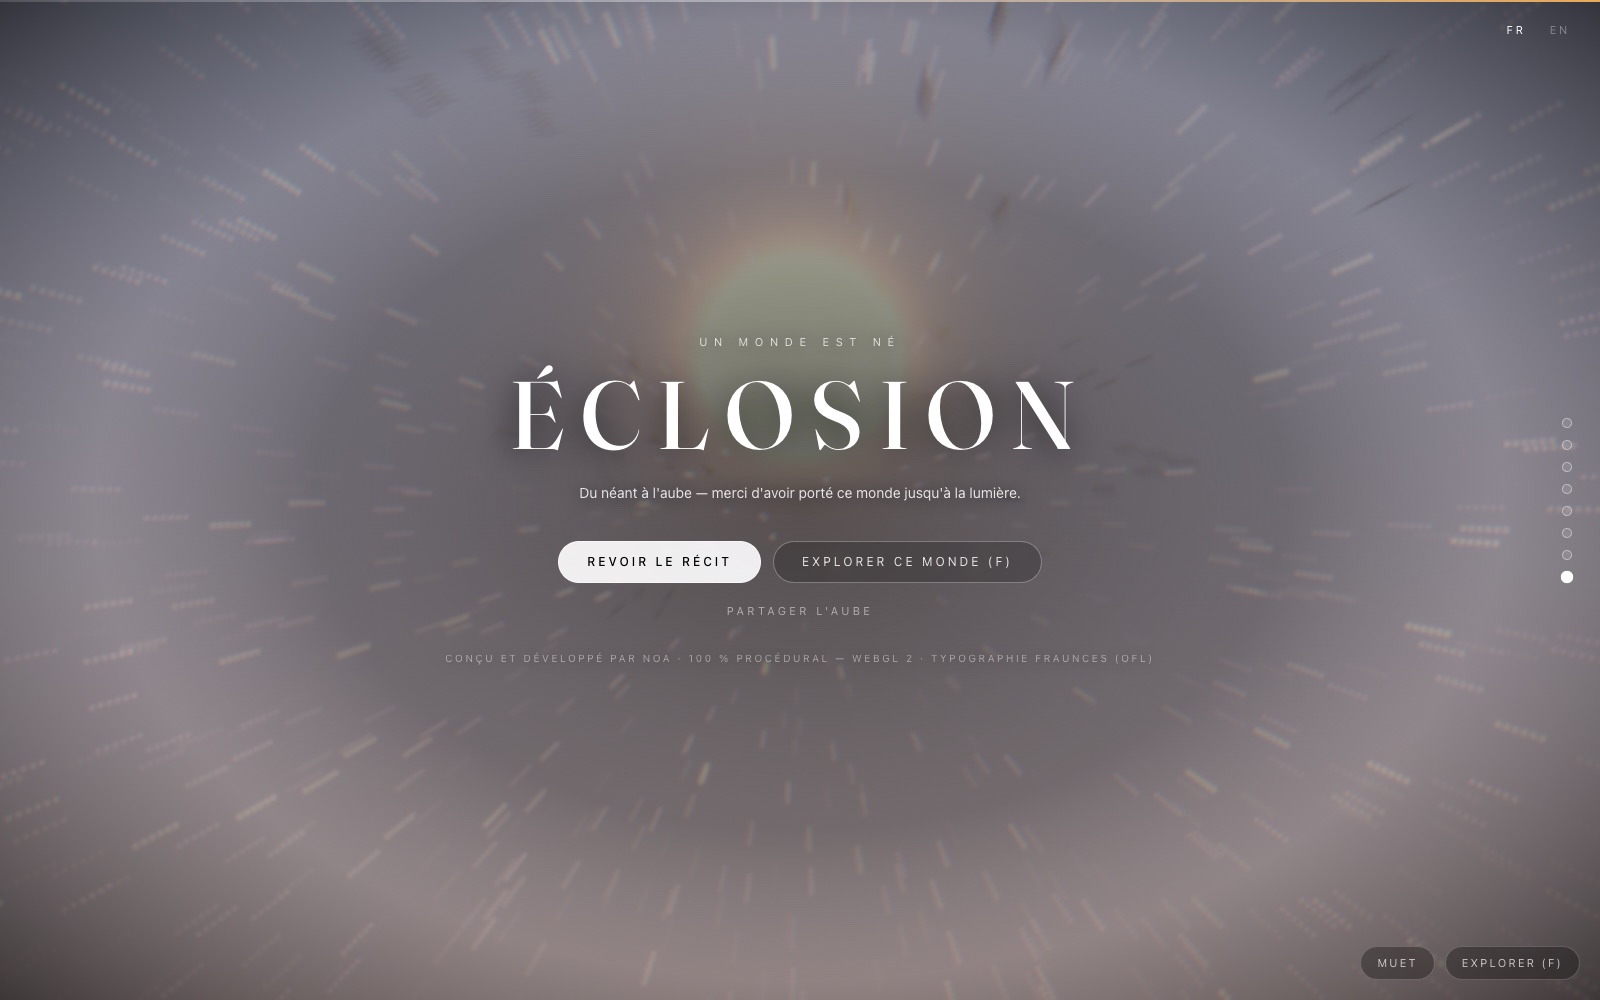
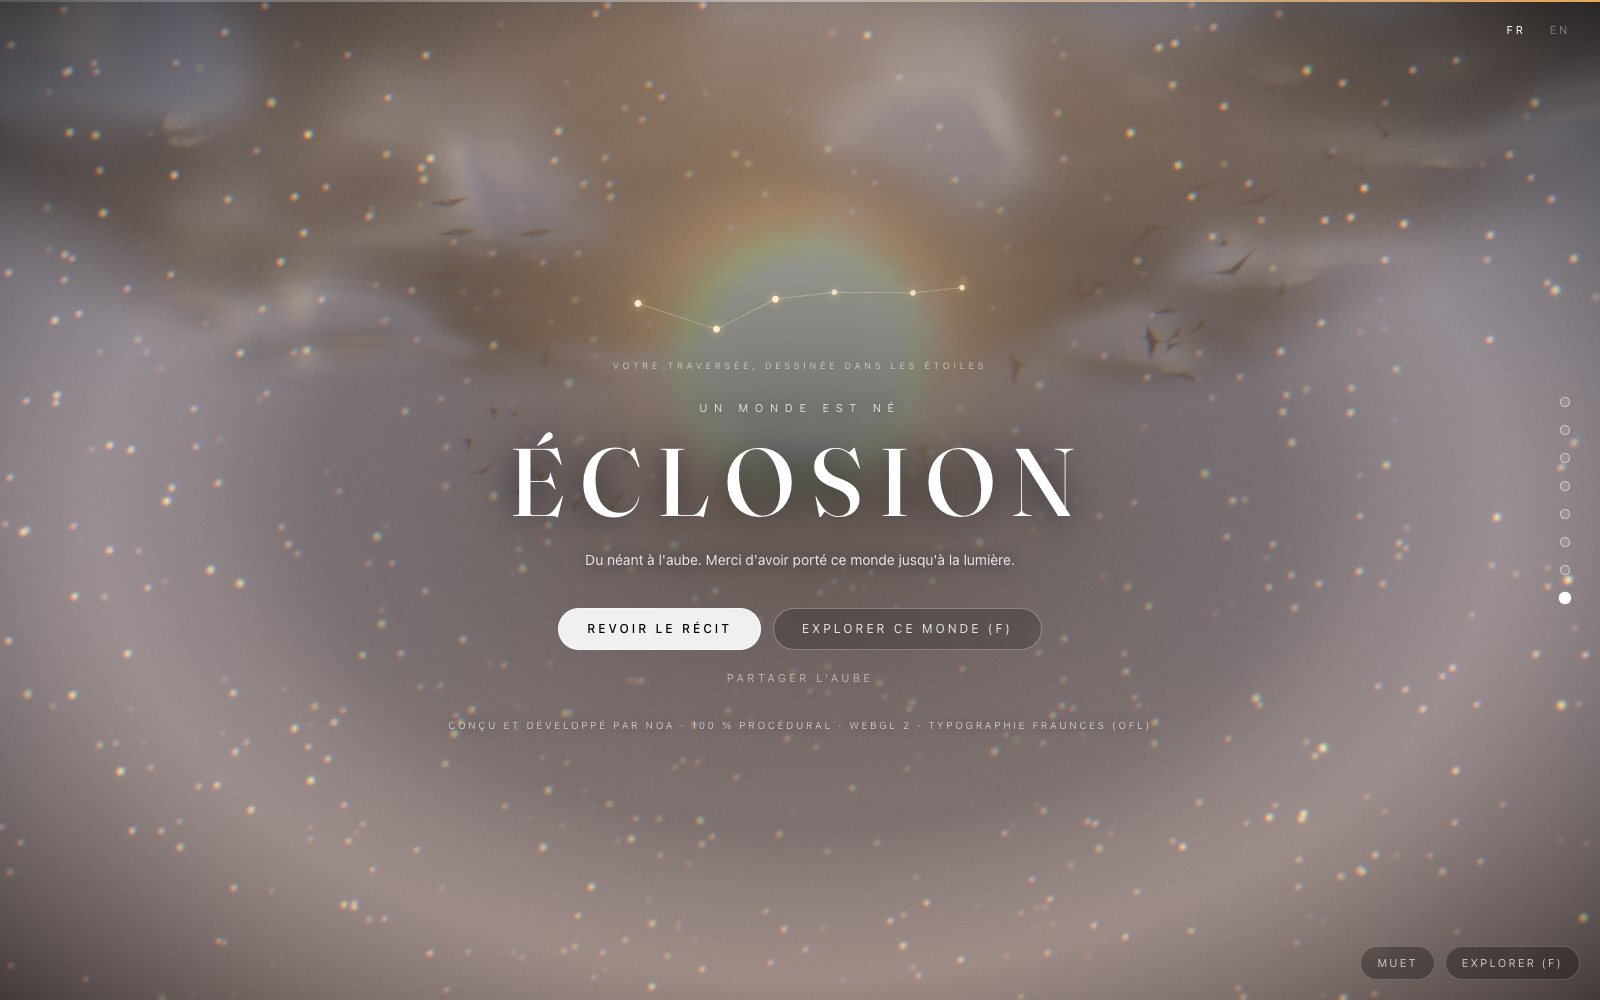
docs: refresh the showcase - new gallery shots from the production build (fireflies under the moon, the constellation end card), the world-remembers section, updated controls; fix(scroll): decay stored velocity so speed blur and the wind gust never freeze after a programmatic jump

diff --git a/src/hooks/useLenisScroll.ts b/src/hooks/useLenisScroll.ts
@@ -6,7 +6,7 @@ import { ScrollTrigger } from "gsap/ScrollTrigger";
 import Lenis from "lenis";
 import { LENIS_LERP } from "@/config/scroll";
 import { buildMasterTimeline } from "@/timelines/masterTimeline";
-import { writeProgress } from "@/stores/progressStore";
+import { decayVelocity, writeProgress } from "@/stores/progressStore";
 import { useAppStore } from "@/stores/appStore";
 import { registerLenis } from "@/lib/scrollControl";
 
@@ -25,7 +25,12 @@ export function useLenisScroll(smooth: boolean): void {
     if (smooth) {
       lenis = new Lenis({ autoRaf: false, lerp: LENIS_LERP, syncTouch: true });
       lenis.on("scroll", ScrollTrigger.update);
-      tick = (time: number) => lenis?.raf(time * 1000);
+      let last = 0;
+      tick = (time: number) => {
+        lenis?.raf(time * 1000);
+        decayVelocity(last ? Math.min(time - last, 0.05) : 0.016);
+        last = time;
+      };
       gsap.ticker.add(tick);
       gsap.ticker.lagSmoothing(0);
       registerLenis(lenis);

diff --git a/src/stores/progressStore.ts b/src/stores/progressStore.ts
@@ -19,6 +19,18 @@ export const useProgressStore = create<ProgressState>(() => ({
   actLocal: 0,
 }));
 
+/** Velocity is only WRITTEN on real scroll ticks — without decay, the last
+ *  value freezes after a programmatic jump and the speed blur (and the wind
+ *  gust) stay stuck on. Called every ticker frame; real updates overwrite. */
+export function decayVelocity(dt: number): void {
+  const v = useProgressStore.getState().velocity;
+  if (Math.abs(v) < 0.5) {
+    if (v !== 0) useProgressStore.setState({ velocity: 0 });
+    return;
+  }
+  useProgressStore.setState({ velocity: v * Math.exp(-5 * dt) });
+}
+
 export function writeProgress(progress: number, velocity: number): void {
   const { index, local } = getActState(progress);
   useProgressStore.setState({ progress, velocity, actIndex: index, actLocal: local });

diff --git a/README.md b/README.md
@@ -2,41 +2,50 @@
 
 # É C L O S I O N
 
-**La naissance d'un monde — une expérience web 3D où le défilement est le temps.**
+**La naissance d'un monde - une expérience web 3D où le défilement est le temps.**
 
-*The birth of a world — a 3D web experience where scrolling is time. Fully bilingual (FR/EN).*
+*The birth of a world - a 3D web experience where scrolling is time. Fully bilingual (FR/EN).*
 
-<img src="docs/screens/forest.jpg" alt="Acte III — La Forêt : conifères sous la lune, lucioles, brume rasante" width="100%" />
+<img src="docs/screens/forest.jpg" alt="Acte III - La Forêt : conifères sous la lune, lucioles, brume rasante" width="100%" />
 
 </div>
 
 Du néant à l'aube : une graine germe, une forêt s'éveille sous les lucioles, l'orage éclate,
 la caméra plonge dans un océan bioluminescent où passe une baleine, émerge au pied d'un
-volcan — et la cendre devient jardin sous le premier lever de soleil du monde.
+volcan - et la cendre devient jardin sous le premier lever de soleil du monde.
 
 **100 % procédural** : aucun modèle, aucune texture, aucun fichier audio. Géométrie,
 matériaux (bruit/FBM en GLSL), 100 000+ particules et musique (synthèse WebAudio pure) sont
 générés par le code. Seule exception assumée : la typographie **Fraunces** (OFL, committée
-dans le repo — aucune requête externe au runtime).
+dans le repo - aucune requête externe au runtime).
 
 ## Le voyage
 
 | | |
 |:---:|:---:|
-| <img src="docs/screens/void-constellations.jpg" alt="Acte I — les constellations de la promesse" /> **I — Le Néant.** La promesse du monde s'écrit dans les étoiles : la Graine, la Baleine, l'Oiseau se dessinent trait par trait. | <img src="docs/screens/seed.jpg" alt="Acte II — la graine incandescente" /> **II — La Graine.** Une étincelle de vie perce la nuit ; le rack focus cinématographique isole son battement. |
-| <img src="docs/screens/storm.jpg" alt="Acte IV — l'orage" /> **IV — L'Orage.** Pluie GPU, nuages raymarchés, éclairs à double impact et tonnerre synthétisé retardé par la distance. | <img src="docs/screens/ocean-dive.jpg" alt="Acte V — la plongée" /> **V — La Plongée.** La surface percée dans une ondulation plein écran ; l'ouïe s'enfonce derrière un filtre passe-bas. |
-| <img src="docs/screens/ocean-whale.jpg" alt="Acte V — la baleine" /> **V — La Baleine.** Une seule traversée par plongée — son dos passe sous les bancs de poissons, son chant spatialisé arrive de là où elle nage. | <img src="docs/screens/volcano.jpg" alt="Acte VI — le survol du cratère" /> **VI — Le Volcan.** Le survol du cratère : le regard plonge dans le lac en fusion pendant que la fontaine de braises monte vers l'objectif. |
-| <img src="docs/screens/bloom.jpg" alt="Acte VII — l'éclosion" /> **VII — L'Éclosion.** Corolles instanciées qui s'ouvrent au scroll, oiseaux en boids, capsules physiques qui rebondissent. | <img src="docs/screens/finale.jpg" alt="Acte VIII — l'aube" /> **VIII — L'Aube.** Les oiseaux traversent le premier lever de soleil, les pétales du Souffle montent vers la lumière, l'accord se résout en cloches. |
+| <img src="docs/screens/void-constellations.jpg" alt="Acte I - les constellations de la promesse" /> **I - Le Néant.** La promesse du monde s'écrit dans les étoiles : la Graine, la Baleine, l'Oiseau se dessinent trait par trait. Les titres d'actes vivent DANS le monde : parallaxe, brume, profondeur de champ. | <img src="docs/screens/seed.jpg" alt="Acte II - la graine incandescente" /> **II - La Graine.** Une étincelle de vie perce la nuit : des veines de lumière rampent hors du cairn au rythme de son battement, des braises dérivent dans l'air. |
+| <img src="docs/screens/storm.jpg" alt="Acte IV - l'orage" /> **IV - L'Orage.** Pluie GPU, nuages raymarchés, éclairs à double impact et tonnerre synthétisé retardé par la distance. | <img src="docs/screens/ocean-dive.jpg" alt="Acte V - la plongée" /> **V - La Plongée.** La surface percée dans une ondulation plein écran ; l'ouïe s'enfonce derrière un filtre passe-bas. |
+| <img src="docs/screens/ocean-whale.jpg" alt="Acte V - la baleine" /> **V - La Baleine.** Une seule traversée par plongée - son dos passe sous les bancs de poissons, son chant spatialisé arrive de là où elle nage. | <img src="docs/screens/volcano.jpg" alt="Acte VI - le survol du cratère" /> **VI - Le Volcan.** Le survol du cratère : le regard plonge dans le lac en fusion pendant que la fontaine de braises monte vers l'objectif. |
+| <img src="docs/screens/bloom.jpg" alt="Acte VII - l'éclosion" /> **VII - L'Éclosion.** Corolles instanciées qui s'ouvrent au scroll, oiseaux en boids, capsules physiques qui rebondissent. | <img src="docs/screens/finale.jpg" alt="Acte VIII - l'aube" /> **VIII - L'Aube.** Les oiseaux traversent le premier lever de soleil, les pétales du Souffle montent vers la lumière, l'accord se résout en cloches. |
 
 <div align="center">
 <img src="docs/screens/endcard.jpg" alt="Écran final" width="70%" />
 
-*Le titre prend son sens à la toute fin — puis deux portes : revoir le récit, ou habiter le monde.*
+*Le titre prend son sens à la toute fin, sous VOTRE constellation : chaque étoile est un moment où vous vous êtes attardé, reliées dans l'ordre de votre voyage. Elle signe aussi chaque carte postale (touche P).*
 
-<img src="docs/screens/mobile-forest.jpg" alt="Version mobile — la forêt en portrait" width="32%" />
+<img src="docs/screens/mobile-forest.jpg" alt="Version mobile - la forêt en portrait" width="32%" />
 
-*Entièrement responsive — le doigt sème les lucioles au fil du scroll tactile.*
+*Entièrement responsive - le doigt sème les lucioles au fil du scroll tactile.*
 </div>
+
+## Ce que le monde garde de vous
+
+- **Votre constellation** : le film échantillonne où votre temps s'écoule ; la carte de fin la dessine, la carte postale la signe. Deux visiteurs ne partagent jamais la même image.
+- **Les rencontres** : une chouette au-dessus des sapins, un poisson hors de la houle, un lièvre dans la prairie. 60 % de chance chacune, par traversée. Parfois on les manque : c'est le principe.
+- **Le secret** : restez immobile vingt secondes sur l'écran final.
+- **La bande-annonce** : le film se déroule seul, au rythme réalisé (ralenti sur les éclairs, la plongée, le survol du cratère). Une minute d'immobilité sur l'accueil et il se lance de lui-même, muet, en boucle.
+- **Le temps recommence** : en exploration libre, un jour complet passe en cinq minutes : aube dorée, midi, crépuscule, nuit, sur n'importe quel point du monde.
+- **L'orage vous touche** : les gouttes frappent l'objectif et y ruissellent ; le tonnerre claque selon la distance de l'éclair.
 
 ## Démarrer
 
@@ -53,10 +62,10 @@ pnpm typecheck  # tsc strict
 | Entrée | Action |
 |---|---|
 | Molette / tactile / flèches / espace | Avancer dans le récit (le scroll est la timeline) |
-| Points à droite | Aller directement à un acte |
+| Points (rail à droite ; bande en haut sur mobile) | Aller directement à un acte |
 | `F` | Basculer exploration libre ↔ récit (retour exact à la progression) |
-| ZQSD / WASD + souris (exploration) | Se déplacer / regarder — `Maj` sprint, `Espace` monter, `C` descendre |
-| `P` | Mode photo — capture du rendu 3D pur, téléchargée |
+| ZQSD / WASD + souris ; joystick + glisser au tactile (exploration) | Se déplacer / regarder - `Maj` sprint, `Espace` monter, `C` descendre |
+| `P` (bouton dédié sur mobile) | Carte postale : la capture montée, signée de votre constellation ; partage natif au tactile |
 | `M` | Couper / activer le son |
 | `` ` `` | Éditeur de scène temps réel (leva) |
 | FR / EN (en haut à droite) | Basculer la langue du récit |
@@ -72,7 +81,7 @@ Tailwind CSS 4 · WebAudio (synthèse pure).
 ### Le contrat de scroll (le cœur du système)
 
 ```
-wheel/touch → Lenis (lerp 0.08 — le SEUL lissage) → scrollTop
+wheel/touch → Lenis (lerp 0.08 - le SEUL lissage) → scrollTop
   → gsap.ticker pilote lenis.raf ; lenis "scroll" → ScrollTrigger.update()
   → un ScrollTrigger maître (scrub: true) scrub la timeline GSAP (durée 1 = progress)
       ├─ les tweens mutent uniformProxies (objets plains) + uniforms des matériaux
@@ -92,10 +101,10 @@ défaut de GSAP vaut la moitié du film).
 - **WebGL2 + GLSL, pas WebGPURenderer** : l'exigence de shaders custom est incompatible avec
   TSL/WGSL. Les particules sont *stateless* : chaque comportement (pluie, lucioles en
   curl-noise, braises, vortex du final…) est une fonction fermée de `(seed, uTime)` évaluée en
-  vertex shader — pas de ping-pong FBO. Buffers alloués au tier max ; changer de qualité ne
+  vertex shader - pas de ping-pong FBO. Buffers alloués au tier max ; changer de qualité ne
   fait que déplacer `setDrawRange`.
 - **Un seul sol analytique** : `groundHeight(x, z)` génère l'unique mesh de terrain, contraint
-  la marche en exploration libre, fait rebondir les props physiques et borne les boids — ce
+  la marche en exploration libre, fait rebondir les props physiques et borne les boids - ce
   qu'on voit est exactement ce qu'on touche.
 - **Caméra continue** : chemin CatmullRom paramétré par acte, chaque acte voyageant jusqu'au
   premier point du suivant (continuité C0 aux frontières) + amortissement spatial léger (λ=9)
@@ -112,7 +121,7 @@ défaut de GSAP vaut la moitié du film).
 - **Qualité adaptative sans réseau** : tiering GPU par heuristique locale, puis un
   `PerformanceMonitor` qui descend DPR → tier avec un plancher. Post par tier (Bloom HalfFloat,
   DOF, GodRays lune/soleil, grain, speed-blur radial, grade timeline, ondulation de plongée).
-- **IA comportementale** : boids CPU (grille de hachage) rendus en InstancedMesh — poissons,
+- **IA comportementale** : boids CPU (grille de hachage) rendus en InstancedMesh - poissons,
   oiseaux, et une baleine qui ne passe qu'une fois par approche ; physique légère maison
   (Euler semi-implicite + collision heightfield + sommeil).
 
